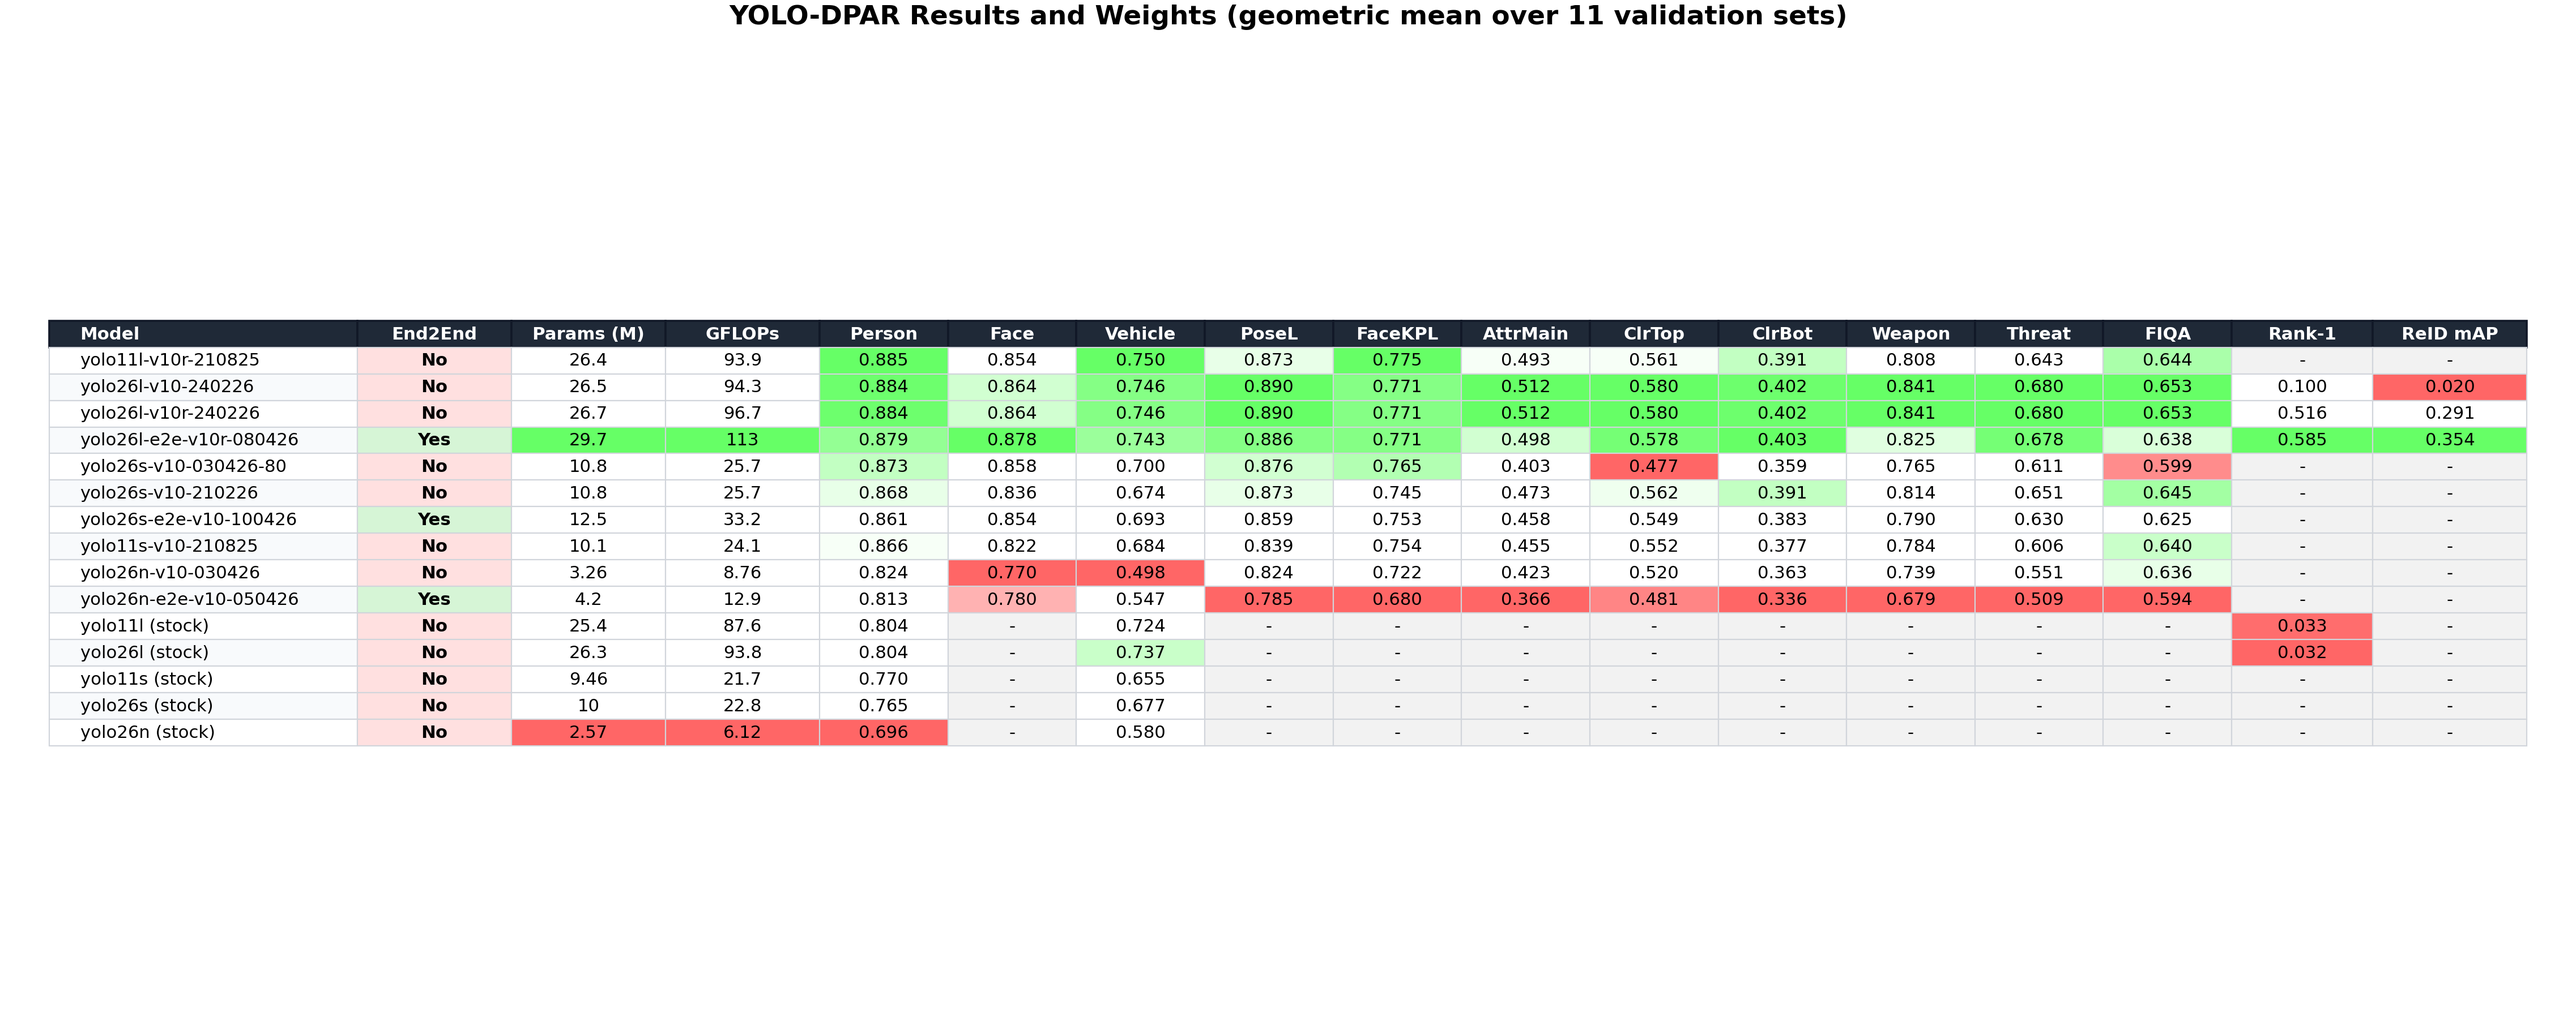
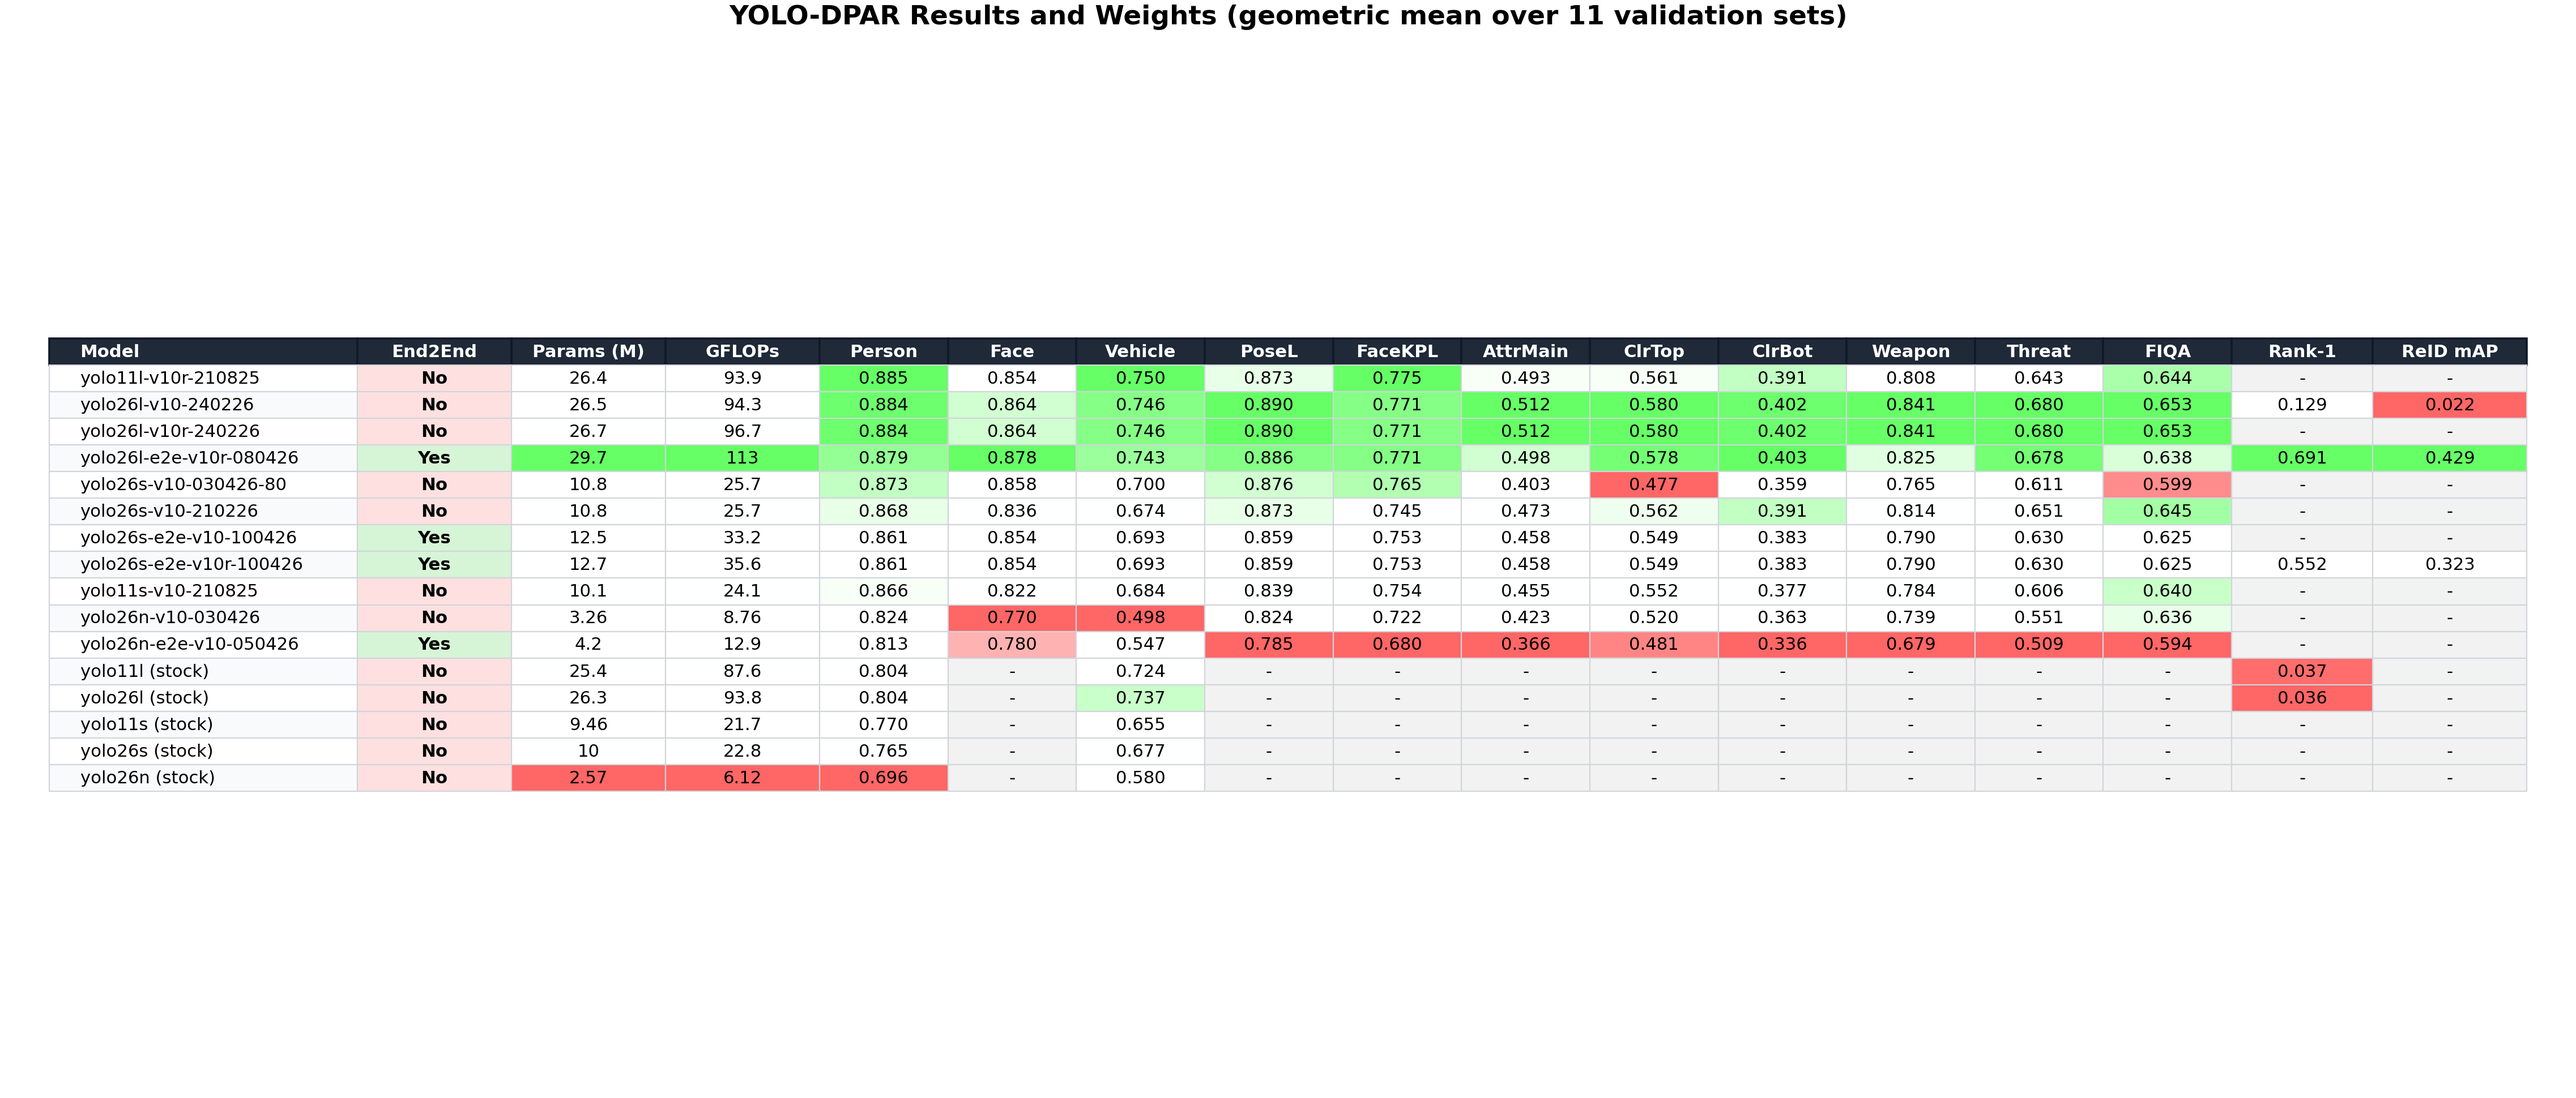
update reid metrics and add yolo26s e2e-v10r weights
Refresh the synthetic ReID evaluation data used by the rendered results table and include the new yolo26s-e2e-v10r-100426 model weights in the tracked model set.

Made-with: Cursor

diff --git a/other/render_results_table.py b/other/render_results_table.py
@@ -138,6 +138,24 @@ def _build_dataframe() -> pd.DataFrame:
             "FIQA": 0.625,
         },
         {
+            "Model": "yolo26s-e2e-v10r-100426",
+            "End2End": "Yes",
+            # Per request: clone non-ReID metrics from yolo26s-e2e-v10-100426.
+            "Params (M)": 12.7,
+            "GFLOPs": 35.6,
+            "Person": 0.861,
+            "Face": 0.854,
+            "Vehicle": 0.693,
+            "PoseL": 0.859,
+            "FaceKPL": 0.753,
+            "AttrMain": 0.458,
+            "ClrTop": 0.549,
+            "ClrBot": 0.383,
+            "Weapon": 0.790,
+            "Threat": 0.630,
+            "FIQA": 0.625,
+        },
+        {
             "Model": "yolo11s-v10-210825",
             "End2End": "No",
             "Params (M)": 10.1,
@@ -278,89 +296,89 @@ def _build_dataframe() -> pd.DataFrame:
     # Full ReID evaluation table payload (kept in code for reproducibility).
     reid_eval_rows = [
         {
-            "dataset": "Mean",
+            "dataset": "ubonsyntheticloader",
             "test": "yolo26l-e2e-v10r-080426.pt",
             "grid": "mean",
-            "Num id": 526,
-            "Num Img": 7930,
-            "Missed": 24.2,
-            "Emb": 7900,
-            "Q total": 526,
-            "Q valid": 526,
-            "Rank-1": 0.585,
-            "Rank-5": 0.752,
-            "Rank-10": 0.809,
-            "Rank-20": 0.859,
-            "mAP": 0.354,
-            "Vis": 4.75,
+            "Num id": 607,
+            "Num Img": 9710,
+            "Missed": 0.667,
+            "Emb": 9710,
+            "Q total": 607,
+            "Q valid": 607,
+            "Rank-1": 0.691,
+            "Rank-5": 0.852,
+            "Rank-10": 0.891,
+            "Rank-20": 0.917,
+            "mAP": 0.429,
+            "Vis": 6.0,
         },
         {
-            "dataset": "Mean",
-            "test": "yolo26l-v10r-240226.pt",
+            "dataset": "ubonsyntheticloader",
+            "test": "yolo26s-e2e-v10r-100426.pt",
             "grid": "mean",
-            "Num id": 526,
-            "Num Img": 7930,
-            "Missed": 27.2,
-            "Emb": 7900,
-            "Q total": 526,
-            "Q valid": 526,
-            "Rank-1": 0.516,
-            "Rank-5": 0.711,
-            "Rank-10": 0.772,
-            "Rank-20": 0.827,
-            "mAP": 0.291,
-            "Vis": 4.75,
+            "Num id": 607,
+            "Num Img": 9710,
+            "Missed": 0.333,
+            "Emb": 9710,
+            "Q total": 607,
+            "Q valid": 607,
+            "Rank-1": 0.552,
+            "Rank-5": 0.762,
+            "Rank-10": 0.836,
+            "Rank-20": 0.882,
+            "mAP": 0.323,
+            "Vis": 6.0,
         },
         {
-            "dataset": "Mean",
-            "test": "yolo11l.pt",
-            "grid": "mean",
-            "Num id": 526,
-            "Num Img": 7930,
-            "Missed": 57.2,
-            "Emb": 7870,
-            "Q total": 526,
-            "Q valid": 526,
-            "Rank-1": 0.033,
-            "Rank-5": 0.071,
-            "Rank-10": 0.097,
-            "Rank-20": 0.144,
-            "mAP": np.nan,
-            "Vis": 4.75,
-        },
-        {
-            "dataset": "Mean",
-            "test": "yolo26l.pt",
-            "grid": "mean",
-            "Num id": 526,
-            "Num Img": 7930,
-            "Missed": 36.4,
-            "Emb": 7890,
-            "Q total": 526,
-            "Q valid": 526,
-            "Rank-1": 0.032,
-            "Rank-5": 0.071,
-            "Rank-10": 0.100,
-            "Rank-20": 0.145,
-            "mAP": np.nan,
-            "Vis": 4.75,
-        },
-        {
-            "dataset": "Mean",
+            "dataset": "ubonsyntheticloader",
             "test": "yolo26l-v10-240226.pt",
             "grid": "mean",
-            "Num id": 526,
-            "Num Img": 7930,
-            "Missed": 25.2,
-            "Emb": 7900,
-            "Q total": 526,
-            "Q valid": 526,
-            "Rank-1": 0.100,
-            "Rank-5": 0.168,
-            "Rank-10": 0.218,
-            "Rank-20": 0.272,
-            "mAP": 0.020,
-            "Vis": 4.75,
+            "Num id": 607,
+            "Num Img": 9710,
+            "Missed": 0.667,
+            "Emb": 9710,
+            "Q total": 607,
+            "Q valid": 607,
+            "Rank-1": 0.129,
+            "Rank-5": 0.198,
+            "Rank-10": 0.233,
+            "Rank-20": 0.286,
+            "mAP": 0.022,
+            "Vis": 6.0,
+        },
+        {
+            "dataset": "ubonsyntheticloader",
+            "test": "yolo26l.pt",
+            "grid": "mean",
+            "Num id": 607,
+            "Num Img": 9710,
+            "Missed": np.nan,
+            "Emb": 9710,
+            "Q total": 607,
+            "Q valid": 607,
+            "Rank-1": 0.036,
+            "Rank-5": 0.085,
+            "Rank-10": 0.119,
+            "Rank-20": 0.165,
+            "mAP": np.nan,
+            "Vis": 6.0,
+        },
+        {
+            "dataset": "ubonsyntheticloader",
+            "test": "yolo11l.pt",
+            "grid": "mean",
+            "Num id": 607,
+            "Num Img": 9710,
+            "Missed": np.nan,
+            "Emb": 9710,
+            "Q total": 607,
+            "Q valid": 607,
+            "Rank-1": 0.037,
+            "Rank-5": 0.075,
+            "Rank-10": 0.107,
+            "Rank-20": 0.148,
+            "mAP": np.nan,
+            "Vis": 6.0,
         },
     ]
 
